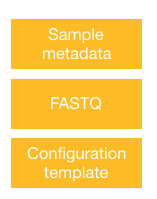
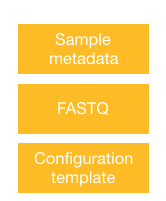
adding bcbio inputs

Changed region(s): [[0.051, 0.0905, 0.9172, 0.9648], [0.3057, 0.4824, 0.6624, 0.5729]]

diff --git a/sessionIV/lessons/03_bcbio_nextgen.md b/sessionIV/lessons/03_bcbio_nextgen.md
@@ -32,13 +32,13 @@ bcbcio-nextgen provides *best-practice* piplelines with the goal of being:
 * Reproducible: Tracks configuration, versions, provenance and command lines
 * Analyzable: Results feed into downstream tools to make it easy to query and visualize
 
-It is availble for installation on most Linux systems (compute clusters), and instructions for setup on the Cloud. It is currently installed on on the Orchestra cluster, and so we will demonstrate `bcbio-nextgen` for RNA-seq data using our Mov10 dataset as input.
+It is availble for installation on most Linux systems (compute clusters), and also has instructions for setup on the Cloud. It is currently installed on on the Orchestra cluster, and so we will demonstrate `bcbio-nextgen` for RNA-seq data using our Mov10 dataset as input.
 
 The figure below describes the input (yellow), workflow (green) and output (purple) components of `bcbio`:
 
 ![bcbio](../img/bcbio-pipeline.png) 
 
-As we work through this lesson we will introduce each component in more detail .
+As we work through this lesson we will introduce each component in more detail.
 
 
 ## Setting up
@@ -67,13 +67,9 @@ Close and save the file. Finally, let's set up the project structure. Change dir
 
 There are three things required as input for your `bcbio` run:
 
-1. FASTQ/BAM files
-2. Metadata file (.csv)
-3. Configuration file
-
 ![bcbio-input](../img/bcbio-input.png) 
 
-The first of this list, we already have. The files we will use as input are the **raw untrimmed FASTQ files**. Rather than than moving them and having two copies unneccesarily we can create a *symbolic link* to them. Symbolic links refer to a symbolic path indicating the abstract location of another file. The syntax is as follows:
+The files we will use as input are the **raw untrimmed FASTQ files**. Rather than than moving them and having two copies unneccesarily we can create a *symbolic link* to them. Symbolic links refer to a symbolic path indicating the abstract location of another file. The syntax is as follows:
 
 	ln -s {/path/to/file-name} {link-name}
 
@@ -89,15 +85,64 @@ We have created this file for you, you will need to copy it over to your current
 
 	cp /groups/hbctraining/ngs-data-analysis2016/rnaseq/bcbio-rnaseq/mov10_project.csv .
 	
+Each line in the file corresponds to a sample, and each column has information about the samples.
 
-The final requirement is a **configuration file**, which will contain details about the set of samples to process, including input files and analysis options. The conifguration file is provided in **YAML file format**, which stands for YAML Ain't Markup Language. YAML is a human friendly data serialization standard for all programming languages. It takes concepts from languages such as C, Perl, and Python and ideas from XML. The data structure hierarchy is maintained by outline indentation.
+```
+samplename,description,condition
+Irrel_kd_1.subset.fq,Irrel_kd_1,control
+Irrel_kd_2.subset.fq,Irrel_kd_2,control
+Irrel_kd_3.subset.fq,Irrel_kd_3,control
+Mov10_oe_1.subset.fq,Mov10_oe_1,overexpression
+Mov10_oe_2.subset.fq,Mov10_oe_2,overexpression
+Mov10_oe_3.subset.fq,Mov10_oe_3,overexpression
+```
 
+The final requirement is a **configuration template**, which will contain details on the analysis options. The template file is used in combination with the metadata file, and the FASTQ files to create a **config file** which is ultimately the input for `bcbio`.
 
-To create this configuration file, bcbio-nextgen provides a utility to create configuration files for multiple sample inputs using a base template. Start with one of the best-practice templates, or define your own (mov10_template.yaml).
+You can start with one of the provided [best-practice templates](https://github.com/chapmanb/bcbio-nextgen/tree/master/config/templates) and modify it as required, or you can create your own. We have created a template for you based on the experimental details. Copy it over and then use `less` to take a look at what is inside.
 
-
+	cp /groups/hbctraining/ngs-data-analysis2016/rnaseq/bcbio-rnaseq/mov10-template.yaml
+	less mov10-template.yaml
 	
+```
+# Template for human RNA-seq using Illumina prepared samples
+---
+details:
+  - analysis: RNA-seq
+    genome_build: hg19
+    algorithm:
+      aligner: star
+      quality_format: standard
+      trim_reads: read_through
+      adapters: [truseq, polya]
+      strandedness: firststrand 
+upload:
+  dir: ../final
+```
 
+You should observe indentation which is characteristic of the **YAML file format** (YAML Ain't Markup Language). YAML is a human friendly data serialization standard for all programming languages. It takes concepts from languages such as C, Perl, and Python and ideas from XML. The data structure hierarchy is maintained by **outline indentation**.
+
+The configuration template defines `details` of each sample to process, including : `analysis` (i.e. RNA-seq, chipseq, variant), `genome_build`, and `algorithm` specifics for each tool that is being used in the workflow. Other details include `metadata`, which will be added via the `.csv` when creating the final config file. At the end of the template we define `upload` which is for the final ouput from `bcbio`. To find out more on the details that can be added to your YAML, check out the [readthedocs](https://bcbio-nextgen.readthedocs.org/en/latest/contents/configuration.html#sample-information). 	
+	 
+We can now apply this template to all samples in our dataset. To do this we use the	template workflow command, which takes in the template, the metadata and the samples:  
+
+	bcbio_nextgen.py -w template mov10-template.yaml mov10_project.csv raw_fastq/*.fq
+	
+Upon completion of the command you should see the following output:
+
+```
+Template configuration file created at: /home/mm573/ngs_course/rnaseq/bcbio-rnaseq/mov10_project/config/mov10_project-template.yaml
+```
+
+If you take a look in your current directory, you will also find that a new directory has been created by the same name as your csv file `mov10_project`. Inside that directory you will find the following directory structure:
+
+```
+mov10_project/
+├── config
+└── work
+```
+
+## `bcbio`: workflow
 
 
 
